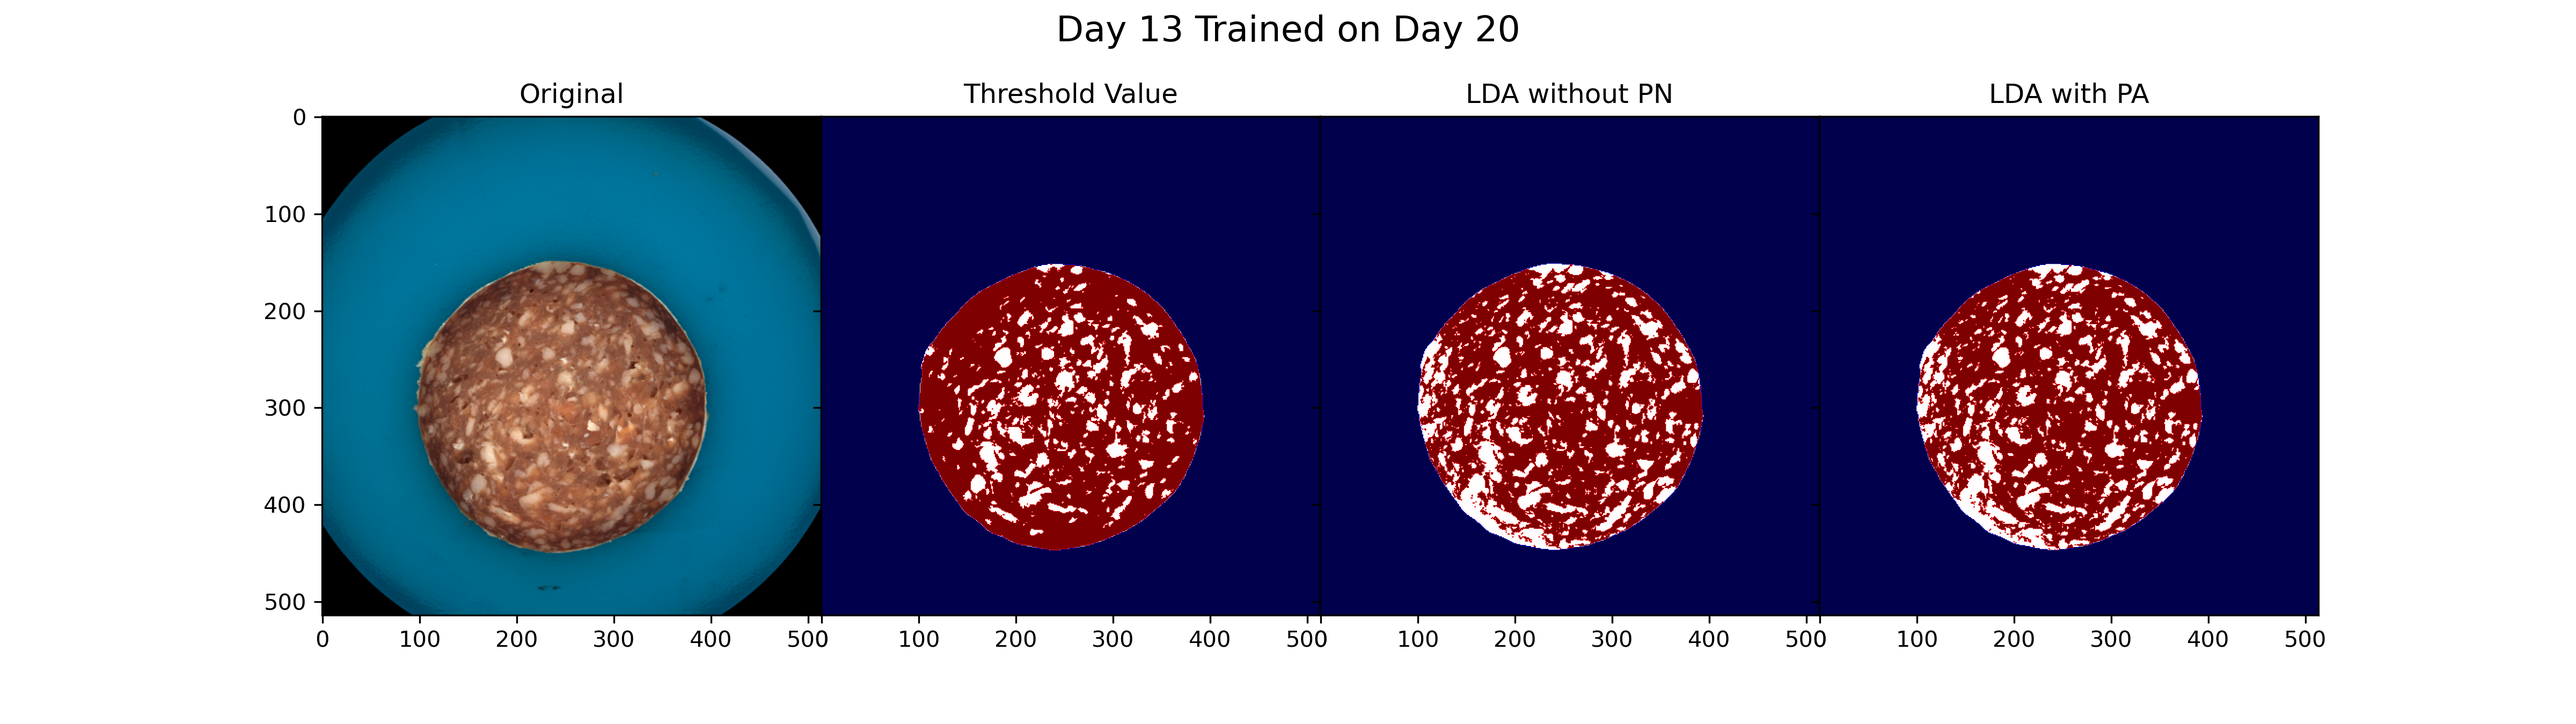
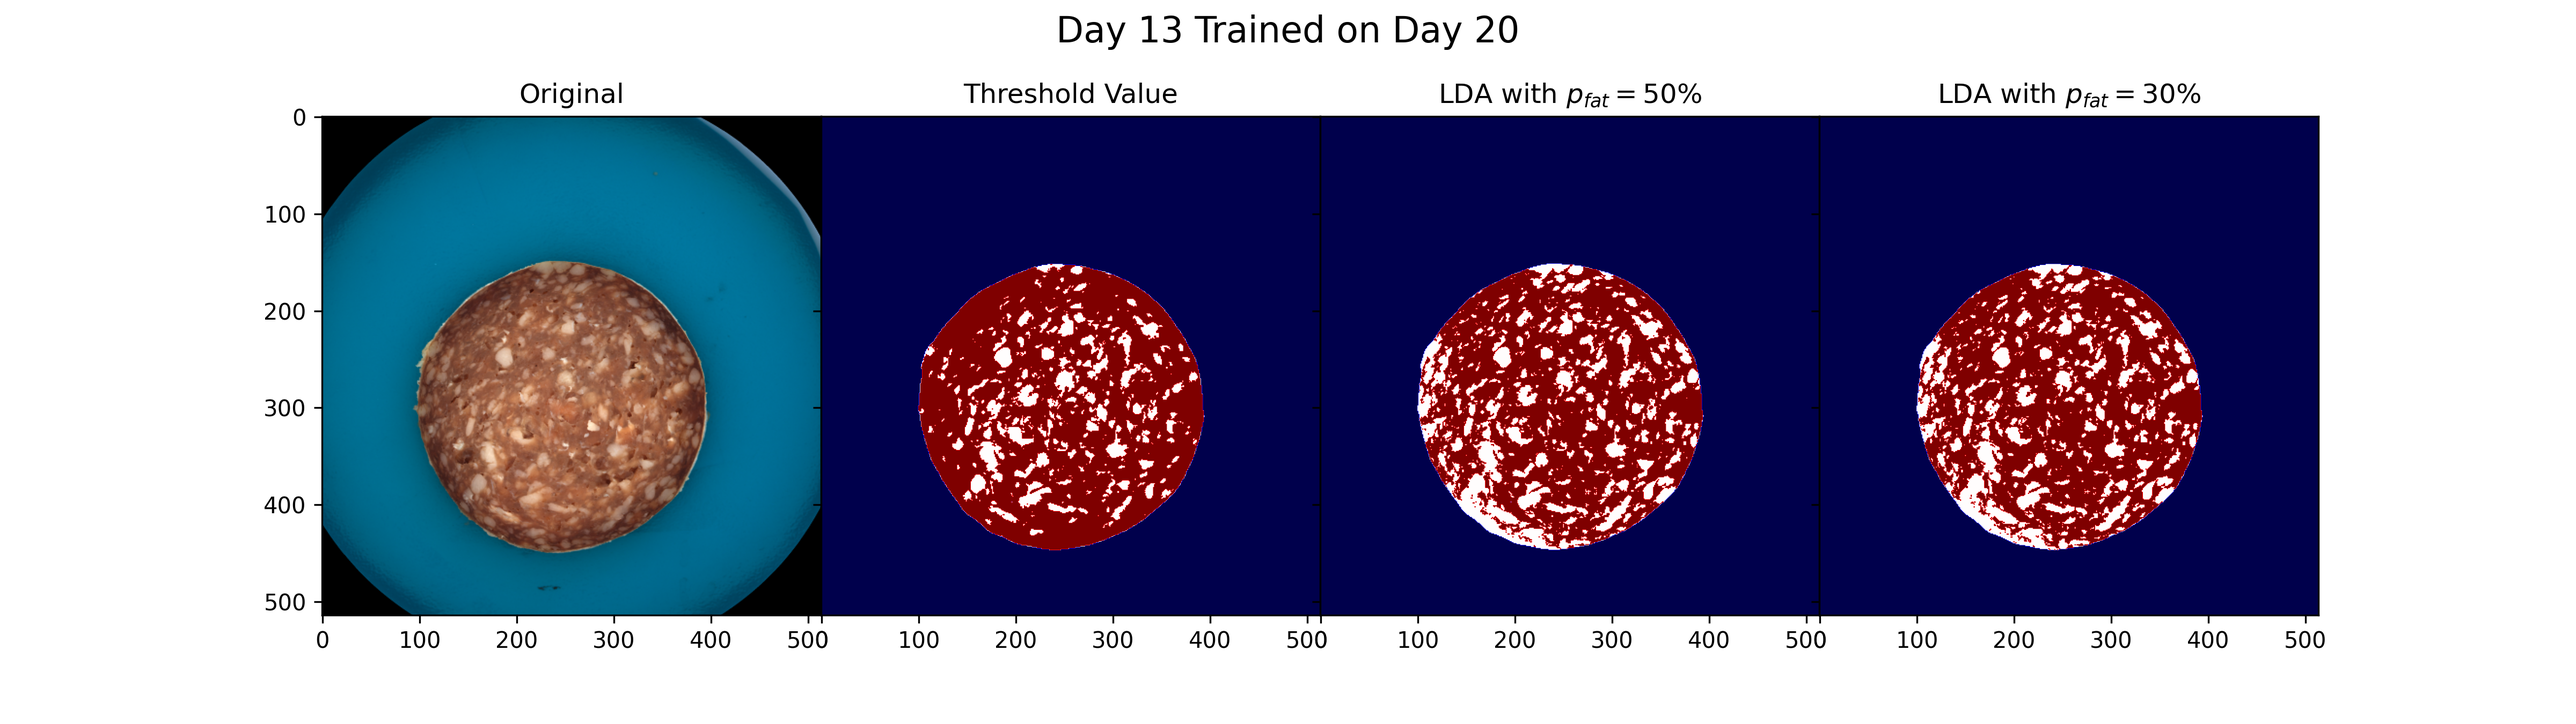
Updated plots

diff --git a/Salami/compare_plot.py b/Salami/compare_plot.py
@@ -38,7 +38,7 @@ def compare_spectrum(mean_fat, sd_fat, mean_meat, sd_meat, signific = 2, ecolor 
 
 # ---------------------------------------------------------------------
 
-def compare_train(image1, image2 = np.array([0]), image3 = np.array([0]), day = 1, title="Titel", im_title = ["Original", "Threshold Value", "LDA without PN", "LDA with PA"], cmap = None, save_fig = None, show_fig = True):
+def compare_train(image1, image2 = np.array([0]), image3 = np.array([0]), day = 1, title="Titel", im_title = ["Original", "Threshold Value", r"LDA with $p_{fat} = 50\%$", r"LDA with $p_{fat} = 30\%$"], cmap = None, save_fig = None, show_fig = True):
     
     if cmap == None: cmap = "viridis"
     image = np.ones(4, dtype = int)
